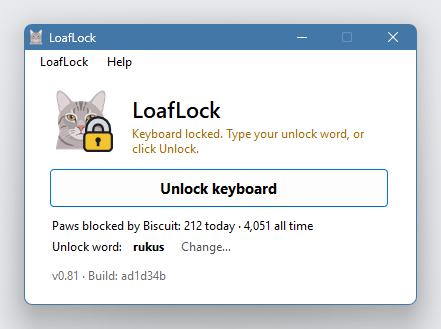
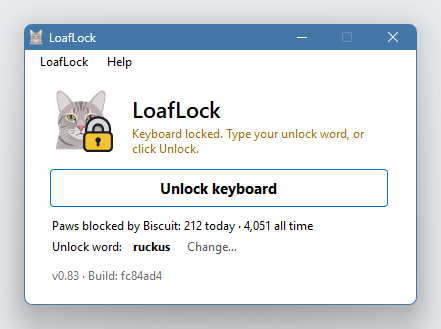
README pictures for 0.83: the paged Options, the 0.83 version line, ruckus as the example word
Retaken with LoafLockTests.exe --screenshots from the v0.83 build (fc84ad4), so the version
line in the pictures matches the release. The Options picture is now the By itself page,
with unlocking by itself ticked. The example unlock word in the pictures is "ruckus": only
tests/Shots.cs changes, and the tests' own "rukus" stays, a value they type.

diff --git a/tests/Shots.cs b/tests/Shots.cs
@@ -37,7 +37,7 @@ namespace LoafLock.Tests
                     // options on: the heads-up shows)
                     var settings = new Settings
                     {
-                        UnlockWord = "rukus", CatName = "Biscuit", Look = look, HotkeyOn = true, HotkeyUnlocks = true,
+                        UnlockWord = "ruckus", CatName = "Biscuit", Look = look, HotkeyOn = true, HotkeyUnlocks = true,
                         IdleLock = true, AutoUnlock = true, CatDetection = true
                     };
                     settings.AddBlocked(212, DateTime.Now);
@@ -138,7 +138,7 @@ namespace LoafLock.Tests
         // itself ticked (the Options picture is its page)
         static Settings Example(Look look)
         {
-            var settings = new Settings { UnlockWord = "rukus", CatName = "Biscuit", Look = look, AutoUnlock = true };
+            var settings = new Settings { UnlockWord = "ruckus", CatName = "Biscuit", Look = look, AutoUnlock = true };
             settings.AddBlocked(212, DateTime.Now);
             settings.BlockedTotal = 4051;
             return settings;
